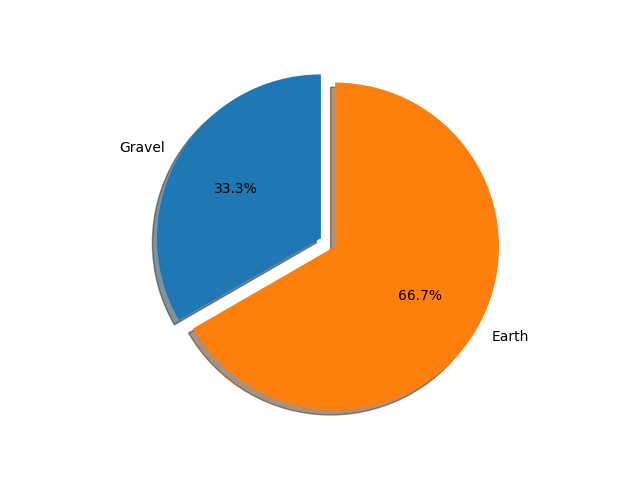
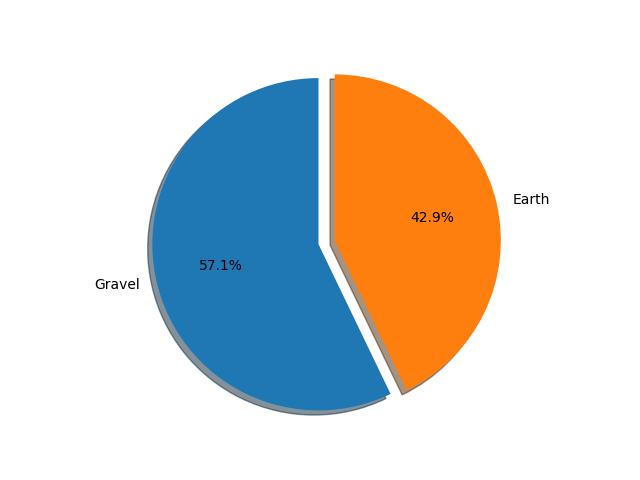
piechart working fairly

diff --git a/app.py b/app.py
@@ -254,12 +254,23 @@ def download_report():
     # legend()
     # axis([0, 10, 0, 8])
     # savefig('barchart.png')
+    cursor = mysql.connection.cursor(MySQLdb.cursors.DictCursor)
+    sizes = []
 
+    cursor.execute("SELECT COUNT(*) AS count FROM RoadDetails WHERE Paved = 'Gravel'")
+    result_gravel = cursor.fetchall()
+    gravel=result_gravel[0]['count']
+    sizes.append(gravel)
+    cursor.execute("SELECT COUNT(*) AS count FROM RoadDetails WHERE Paved = 'Earth'")
+    result_earth = cursor.fetchall()
+    earth=result_earth[0]['count']
+
+    sizes.append(earth)
 
     
     # Pie chart, where the slices will be ordered and plotted counter-clockwise:
     labels =  'Gravel','Earth'
-    sizes = [15, 30]
+    
     explode = (0, 0.1)  # only "explode" the 2nd slice (i.e. 'Hogs')
 
     fig1, ax1 = plt.subplots()
